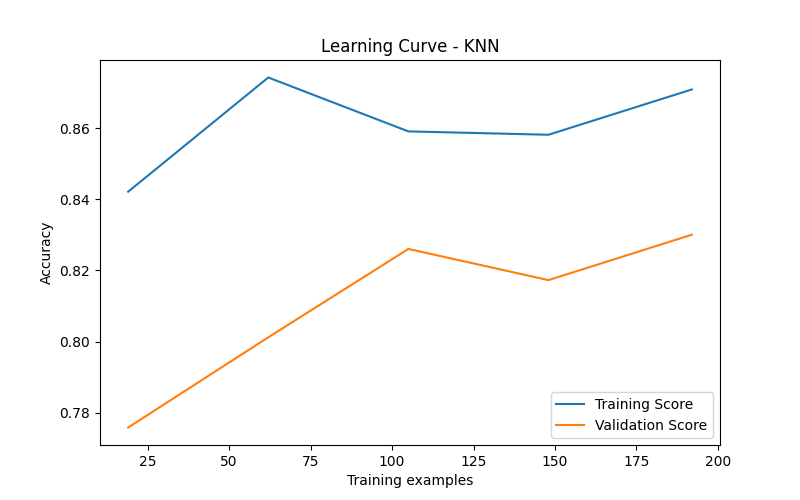
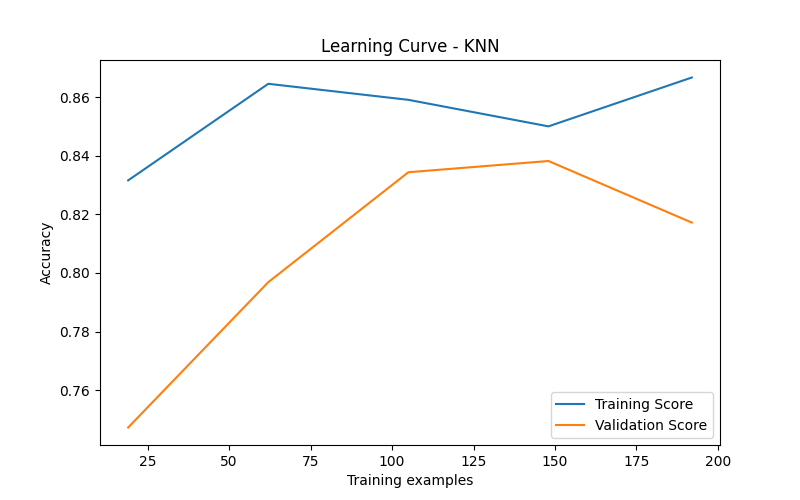
Add files via upload
Drobna refaktoryzacja wyliczania scorów, usunięto zbędny plik

diff --git a/Projekt3/src/tuning.py b/Projekt3/src/tuning.py
@@ -7,6 +7,67 @@ from sklearn.ensemble import RandomForestClassifier
 from sklearn.svm import SVC
 from sklearn.neural_network import MLPClassifier
 
+from sklearn.metrics import (
+    accuracy_score,
+    precision_score,
+    recall_score,
+    f1_score,
+    log_loss,
+    make_scorer
+)
+
+from src.scoring import calculate_combined_score
+
+def combined_scorer(
+        estimator,
+        X,
+        y
+):
+
+    y_pred = estimator.predict(X)
+
+    if hasattr(estimator, "predict_proba"):
+        y_proba = estimator.predict_proba(X)
+
+        loss = log_loss(
+            y,
+            y_proba
+        )
+    else:
+        loss = 0
+
+    metrics = {
+        "accuracy":
+            accuracy_score(y, y_pred),
+
+        "precision":
+            precision_score(
+                y,
+                y_pred,
+                zero_division=0
+            ),
+
+        "recall":
+            recall_score(
+                y,
+                y_pred,
+                zero_division=0
+            ),
+
+        "f1":
+            f1_score(
+                y,
+                y_pred,
+                zero_division=0
+            ),
+
+        "loss":
+            loss
+    }
+
+    return calculate_combined_score(
+        metrics
+    )
 
 def get_tuned_models(X_train, y_train):
 
@@ -14,14 +75,14 @@ def get_tuned_models(X_train, y_train):
         "Logistic Regression": (
             LogisticRegression(max_iter=1000),
             {
-                "C": [0.01, 0.1, 1, 10]
+                "C": [0.005, 0.01, 0.02, 0.03, 0.05, 0.1, 1, 10]
             }
         ),
 
         "KNN": (
             KNeighborsClassifier(),
             {
-                "n_neighbors": [3, 5, 7, 9, 11],
+                "n_neighbors": [3, 5, 7, 8, 9, 10, 11, 12],
                 "weights": [
                     "uniform",
                     "distance"
@@ -34,9 +95,9 @@ def get_tuned_models(X_train, y_train):
                 random_state=42
             ),
             {
-                "max_depth": [3, 5, 7, 10],
+                "max_depth": [1, 2, 3, 4, 5, 7, 10],
                 "min_samples_split":
-                    [2, 5, 10]
+                    [2, 3, 5, 10]
             }
         ),
 
@@ -46,20 +107,20 @@ def get_tuned_models(X_train, y_train):
             ),
             {
                 "n_estimators":
-                    [50, 100, 200],
+                    [40, 50, 60, 100, 200],
 
                 "max_depth":
-                    [3, 5, 10],
+                    [1, 2, 3, 5, 10],
 
                 "min_samples_split":
-                    [2, 5]
+                    [2, 3, 4, 5, 6]
             }
         ),
 
         "SVM": (
             SVC(probability=True),
             {
-                "C": [0.1, 1, 10],
+                "C": [0.03, 0.04, 0.05, 0.1, 0.2, 1, 10],
 
                 "kernel": [
                     "linear",
@@ -89,7 +150,9 @@ def get_tuned_models(X_train, y_train):
 
                 "learning_rate_init": [
                     0.001,
-                    0.01
+                    0.01,
+                    0.02,
+                    0.03
                 ]
             }
         )
@@ -108,7 +171,7 @@ def get_tuned_models(X_train, y_train):
             estimator=model,
             param_grid=params,
             cv=5,
-            scoring="accuracy",
+            scoring=combined_scorer,
             n_jobs=-1
         )
 

diff --git a/Projekt3/main.py b/Projekt3/main.py
@@ -4,10 +4,6 @@ from src.preprocessing import (
     load_and_preprocess_data
 )
 
-from src.models import (
-    get_models
-)
-
 from src.evaluation import (
     evaluate_model,
     save_metrics
@@ -27,6 +23,8 @@ from src.tuning import (
 from src.feature_importance import (
     plot_feature_importance
 )
+
+from src.scoring import calculate_combined_score
 
 import joblib
 def create_folders():
@@ -86,10 +84,7 @@ def main():
 
         metrics["model"] = name
         metrics["combined_score"] = (
-                0.5 * metrics["recall"]
-                + 0.3 * metrics["f1"]
-                + 0.2 * metrics["accuracy"]
-                - 0.1 * metrics["loss"]
+            calculate_combined_score(metrics)
         )
         if metrics["combined_score"] > best_score:
             best_score = metrics["combined_score"]

diff --git a/Projekt3/src/evaluation.py b/Projekt3/src/evaluation.py
@@ -10,7 +10,7 @@ from sklearn.metrics import (
     roc_auc_score
 )
 
-
+from src.scoring import calculate_combined_score
 def evaluate_model(model, X_test, y_test):
     predictions = model.predict(X_test)
     probabilities = model.predict_proba(X_test)
@@ -52,11 +52,9 @@ def evaluate_model(model, X_test, y_test):
 def save_metrics(results):
     df = pd.DataFrame(results)
 
-    df["combined_score"] = (
-            0.5 * df["recall"]
-            + 0.3 * df["f1"]
-            + 0.2 * df["accuracy"]
-            - 0.1 * df["loss"]
+    df["combined_score"] = df.apply(
+        calculate_combined_score,
+        axis=1
     )
 
     df = df.sort_values(

diff --git a/Projekt3/src/scoring.py b/Projekt3/src/scoring.py
@@ -1,0 +1,7 @@
+def calculate_combined_score(metrics):
+    return (
+        0.5 * metrics["recall"]
+        + 0.3 * metrics["f1"]
+        + 0.2 * metrics["accuracy"]
+        - 0.1 * metrics["loss"]
+    )
